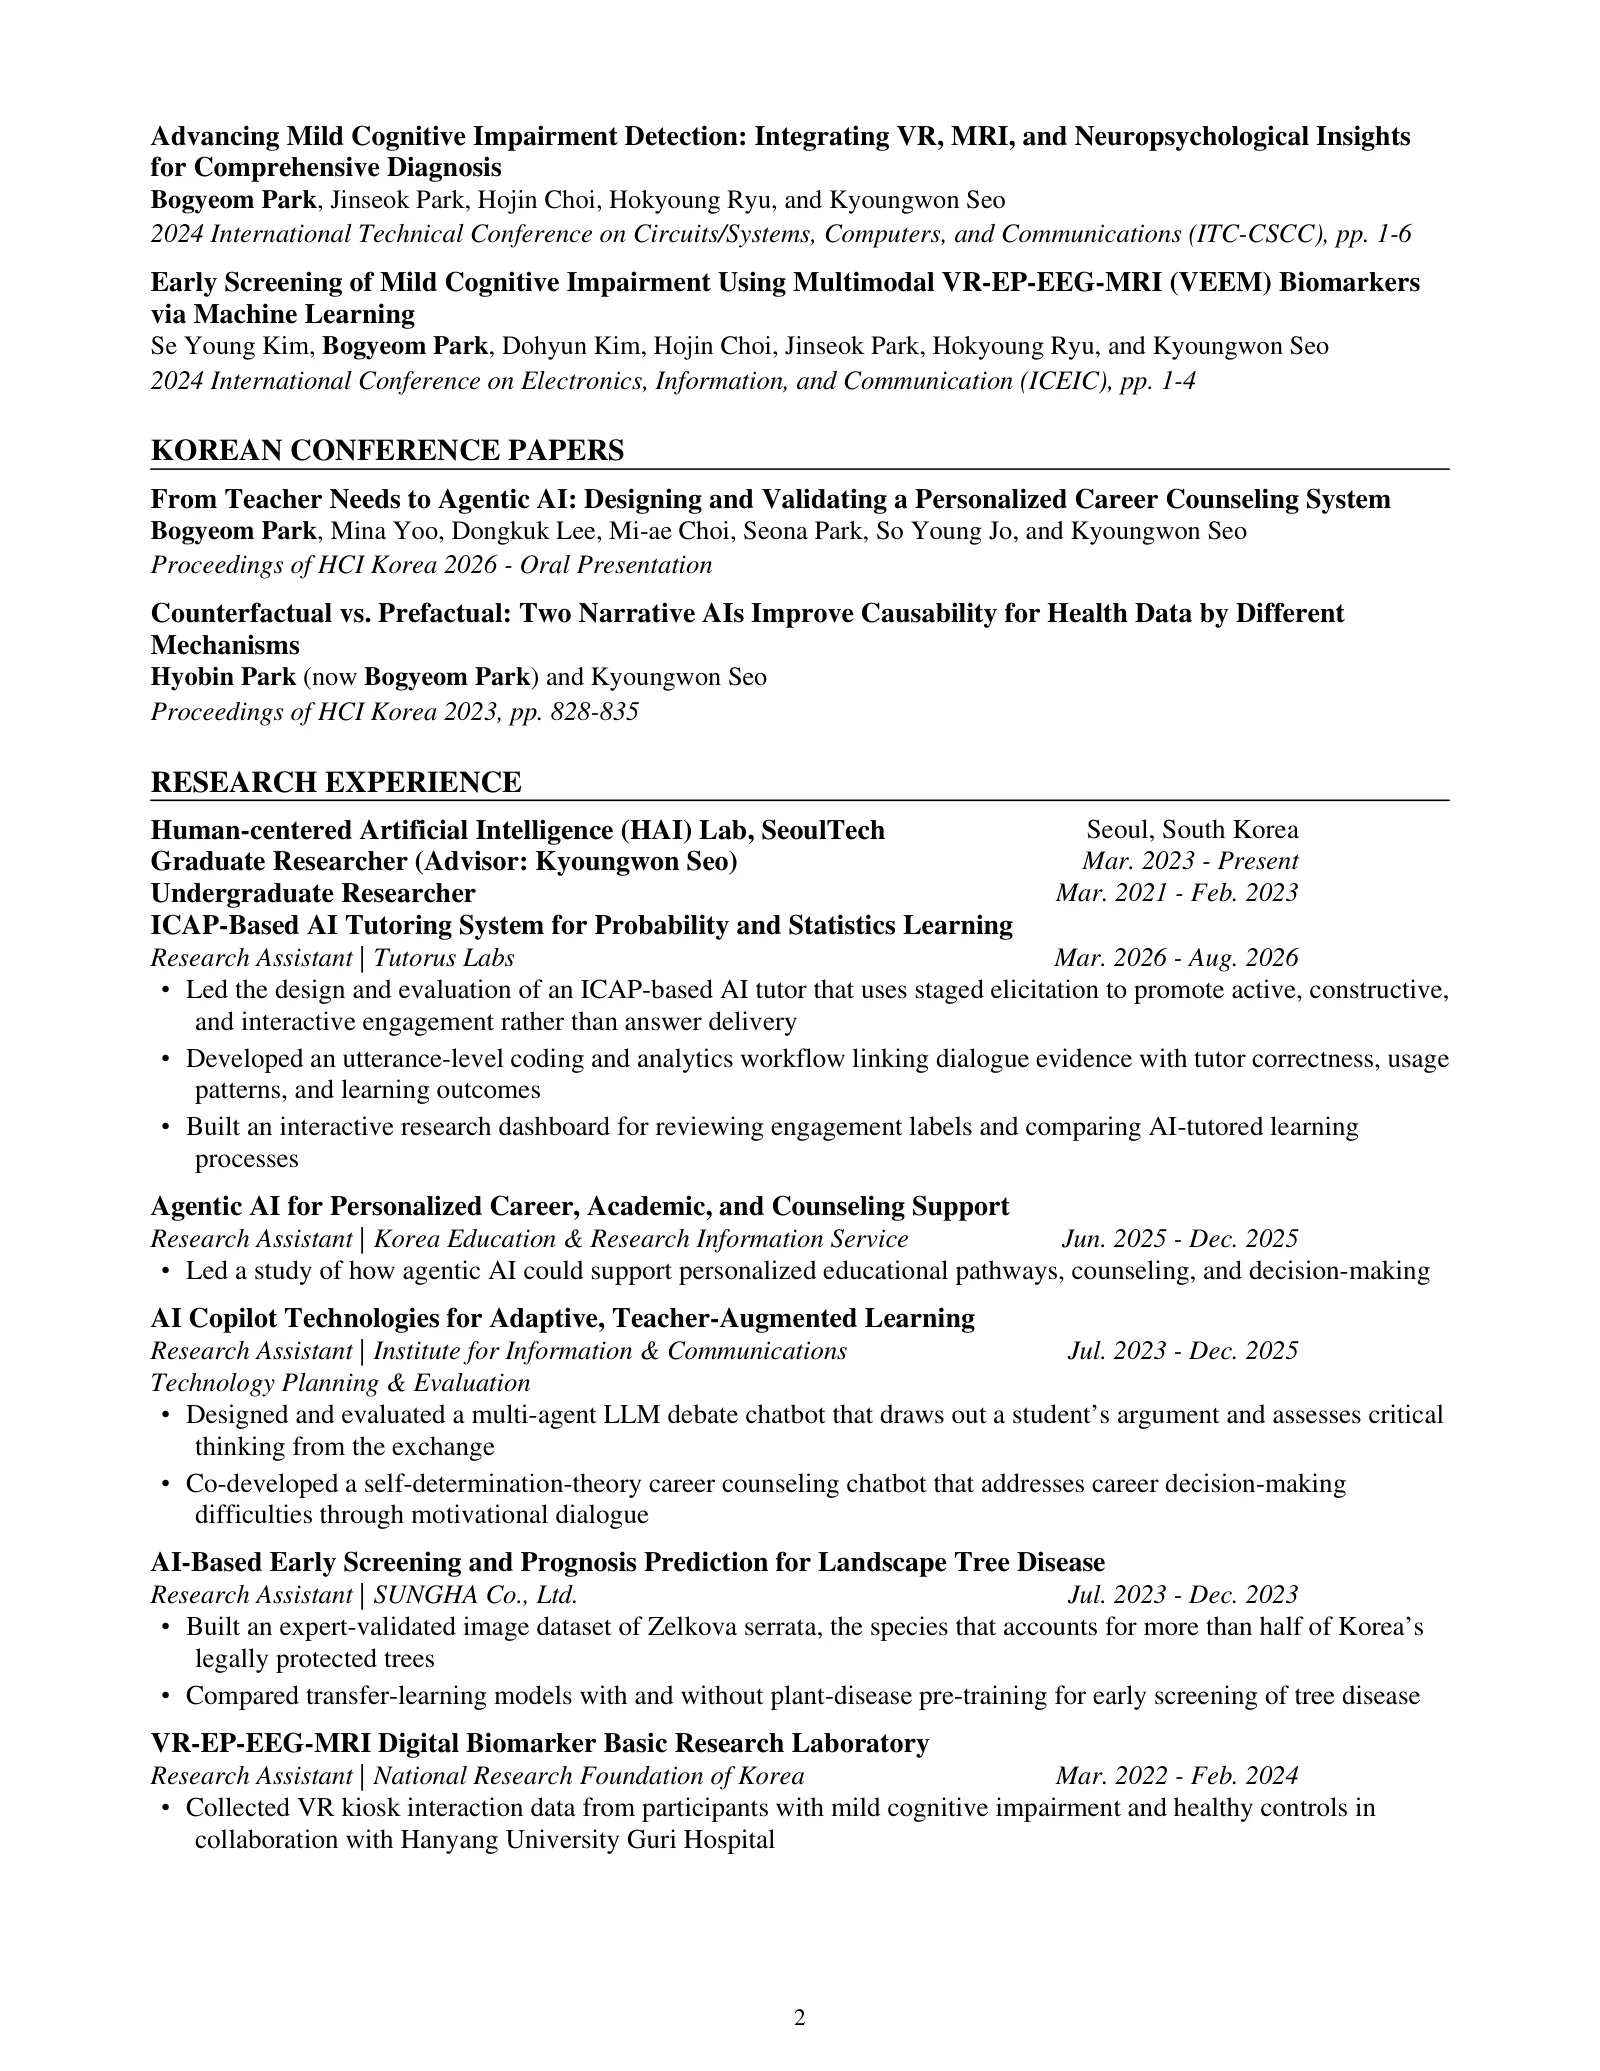
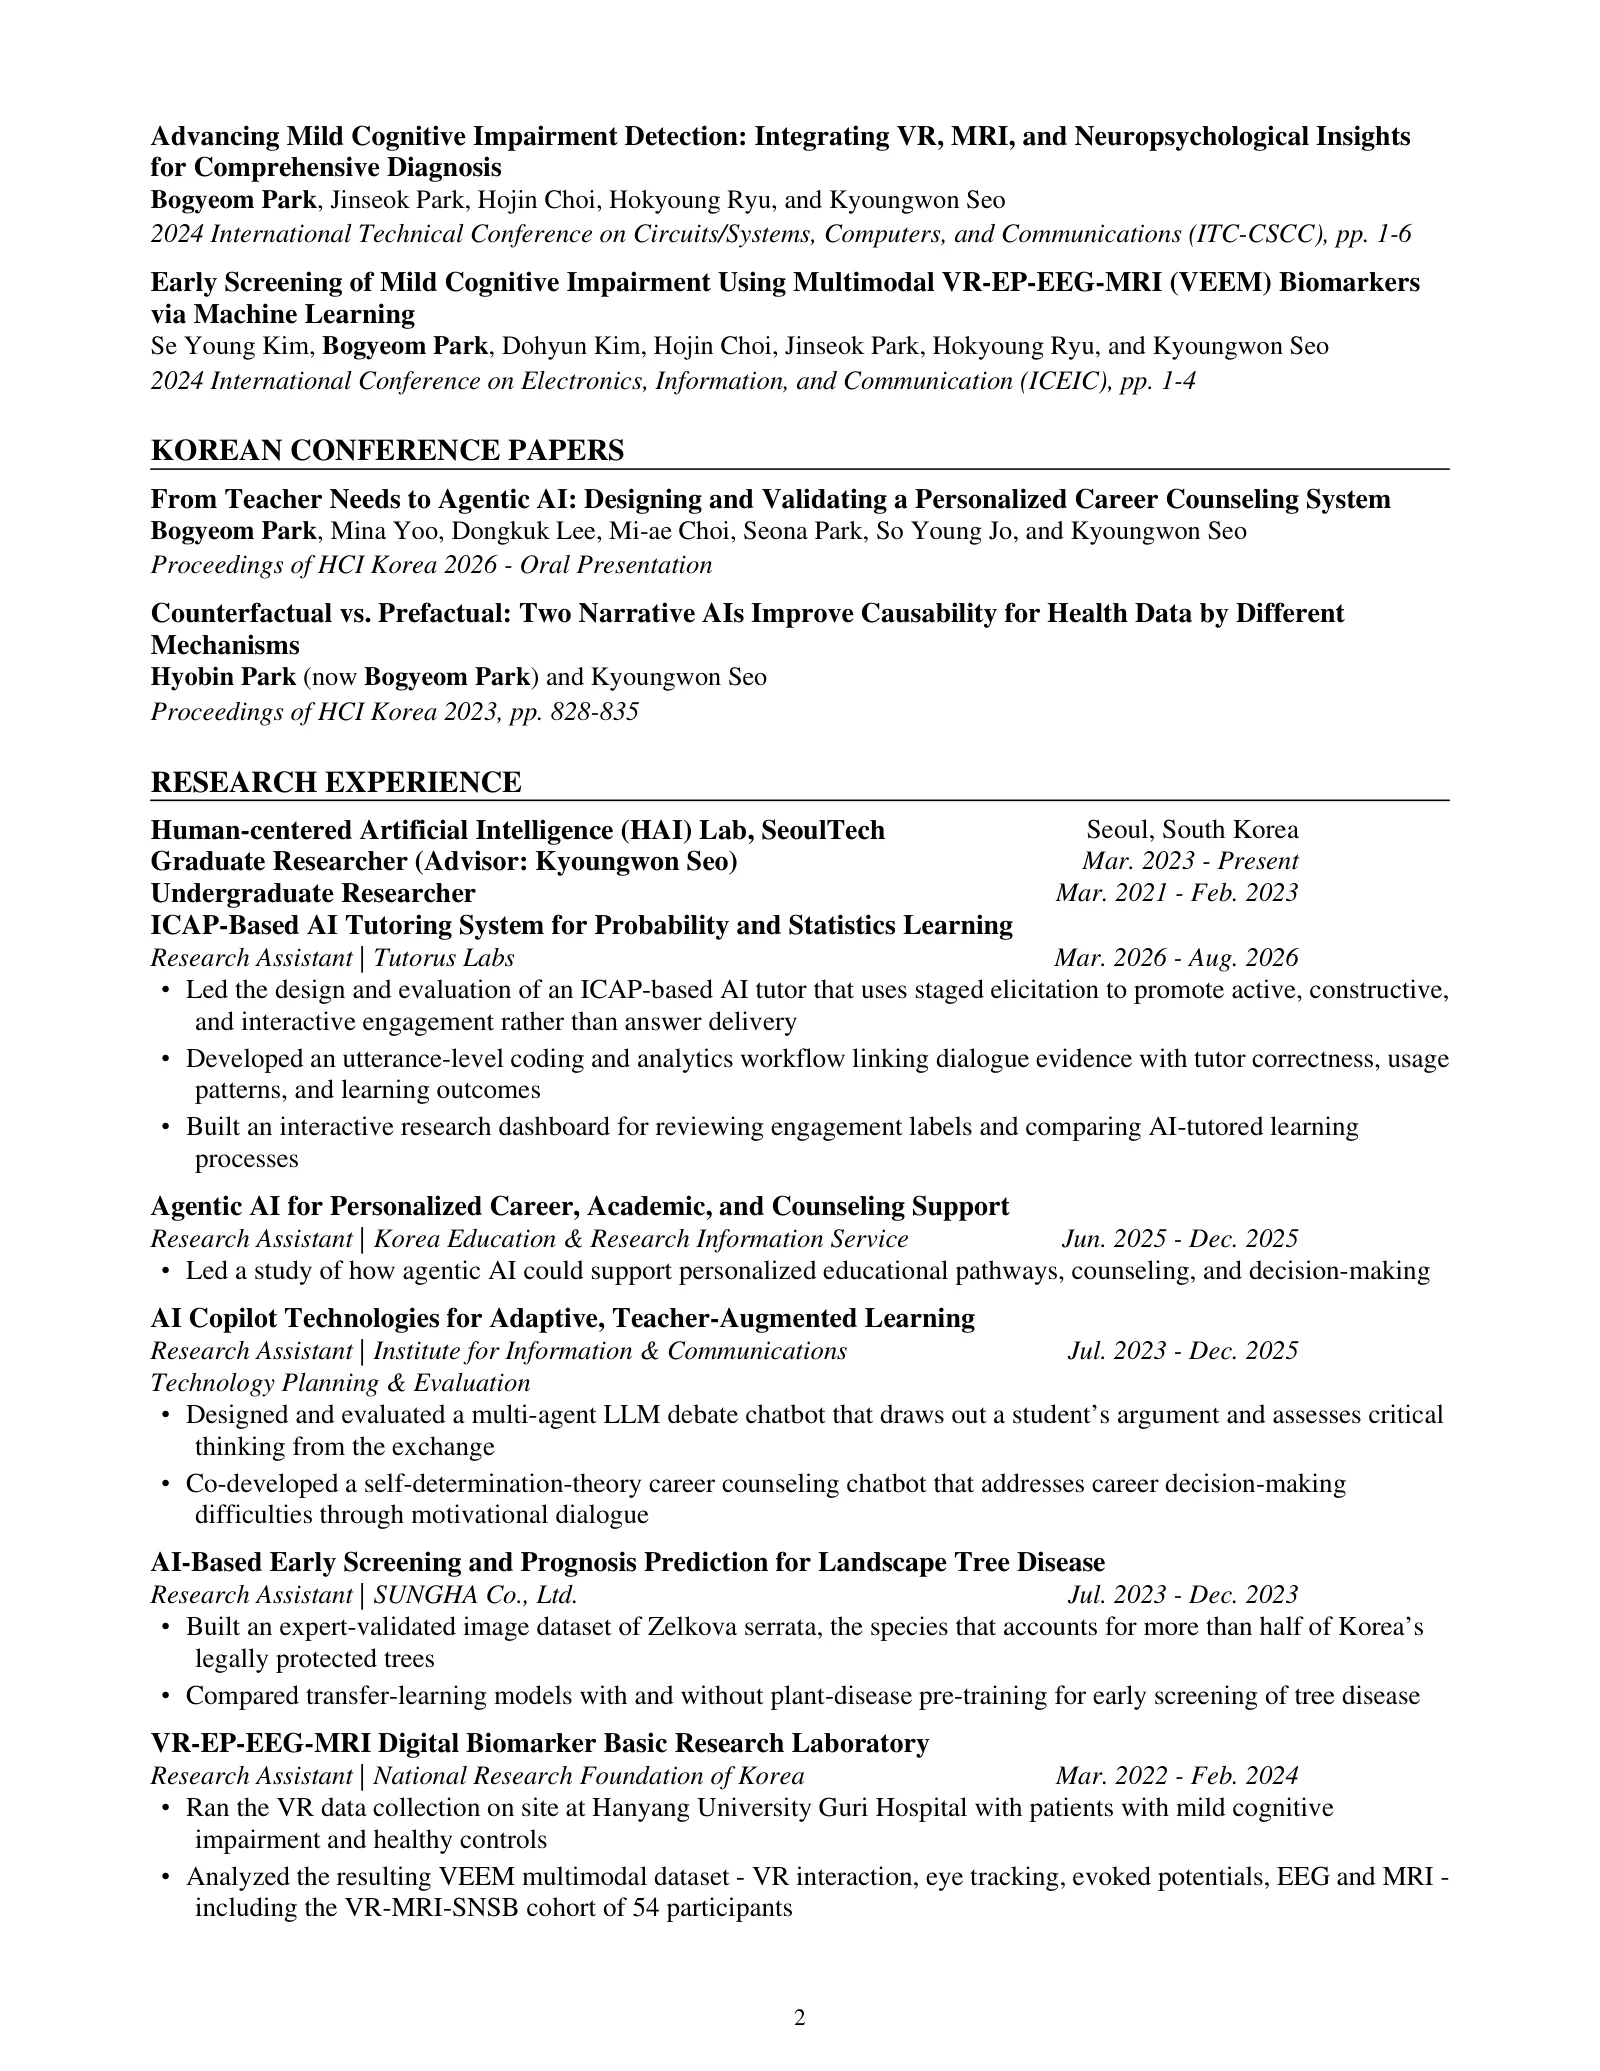
Say who built the kiosk, and who went to the hospital
Both projects were described from the outside - a model was developed, data was
collected - and the two facts that make them worth reading were missing.

The virtual kiosk task in the VR dementia project was built here, in Unity. It
is the instrument the whole study rests on and the thing a visitor can play on
this site, and nothing said so; "derived features from a virtual kiosk task"
reads as though someone handed the task over. Unity now appears in the project
tags, the CV bullets, the CV skills, and the home page's opening sentence,
which listed the systems built but not that one.

The Basic Research Laboratory entry said the raw dataset was managed. What
actually happened is that the VR data was collected on site at Hanyang
University Guri Hospital, from patients, and the VEEM multimodal data was
analysed from there. Clinical data collection with a patient population is not
data management, and it is the part a PI with a clinical collaboration reads
for.

Changed region(s): [[0.125, 0.8653, 0.8438, 0.9271], [0.8438, 0.8962, 0.9062, 0.9271]]

diff --git a/projects/index.html b/projects/index.html
@@ -99,8 +99,8 @@
             <img class="project-figure" src="/assets/projects/veem-brl/figure.webp" width="383" height="319" loading="lazy" alt="The four modalities the laboratory combined: VR interaction data, evoked potentials, EEG, and MRI">
             <p>Dementia is assessed through behavioral measures (VR), physiological ones (evoked potentials), and neural ones (EEG, MRI). Each had its own literature; how they relate to one another, and how to fuse four of them into one read, did not. The laboratory set out to identify those relations with deep learning and to produce a clinically usable VEEM digital biomarker.</p>
             <ul class="takeaway-list">
-              <li><b>My role.</b> Managed the VEEM raw dataset end to end &mdash; VR interaction logs, eye tracking, evoked potentials &mdash; including the VR&ndash;MRI&ndash;SNSB cohort of 54 participants, and wrote sections of the annual and final reports.</li>
-              <li><b>What came out.</b> The dataset behind four of my papers, and a filed patent submitted as a project deliverable.</li>
+              <li><b>My role.</b> Ran the VR data collection at the hospital myself, with patients rather than a convenience sample, and analysed the VEEM multimodal data that came out of it &mdash; VR interaction logs, eye tracking, evoked potentials, EEG and MRI &mdash; including the VR&ndash;MRI&ndash;SNSB cohort of 54 participants. Wrote sections of the annual and final reports.</li>
+              <li><b>What came out.</b> The clinical dataset behind four of my papers, and a filed patent submitted as a project deliverable.</li>
             </ul>
             <div class="tags"><span class="tag">Digital Biomarkers</span><span class="tag">Multimodal Fusion</span><span class="tag">EEG</span><span class="tag">MRI</span><span class="tag">Clinical Cohort</span></div>
           </div>
@@ -114,10 +114,10 @@
             <img class="project-figure" src="/assets/projects/vr-dementia-biomarker/figure.webp" width="367" height="247" loading="lazy" alt="Two of the virtual daily-living tasks: withdrawing money from an ATM, and taking a bus">
             <p>Daily-living performance is the measure clinicians reach for first in early dementia screening, and both ways of collecting it are compromised: a questionnaire bends to whoever answers it, and a computer-based test run through a mouse and keyboard is not how daily life is actually performed. The project built the assessment as an ordinary task carried out naturally in VR, then tested whether deep learning on that behavior screens as well as the clinical measures do.</p>
             <ul class="takeaway-list">
-              <li><b>My role.</b> Led the development and validation of the multimodal model, derived the hand-movement and gaze features from the virtual kiosk task, and tested them against MRI-derived measures in a clinical sample.</li>
+              <li><b>My role.</b> Built the virtual kiosk task in Unity &mdash; the six-step meal order participants carry out in VR, and the instrument the whole study rests on &mdash; then led the development and validation of the multimodal model, derived the hand-movement and gaze features from that task, and tested them against MRI-derived measures in a clinical sample.</li>
               <li><b>What came out.</b> A first-authored validation study in the <i>Journal of Medical Internet Research</i> (JCR Q1, top 3%), CHI Late-Breaking Work, and two IEEE conference papers.</li>
             </ul>
-            <div class="tags"><span class="tag">VR Behavioral Data</span><span class="tag">Multimodal Learning</span><span class="tag">Feature Engineering</span><span class="tag">MCI Screening</span></div>
+            <div class="tags"><span class="tag">VR Development</span><span class="tag">Unity</span><span class="tag">Multimodal Learning</span><span class="tag">Feature Engineering</span><span class="tag">MCI Screening</span></div>
             <div class="paper-links"><a href="/demos/kiosk/">Play it &rarr;</a><a href="/publications/multimodal-biomarkers-jmir/">The paper, JMIR 2024</a></div>
           </div>
         </article>

diff --git a/index.html b/index.html
@@ -39,7 +39,7 @@
       <header class="page-header">
         <p class="eyebrow">Human-Centered Agentic AI &middot; Human&ndash;AI Interaction</p>
         <h1>Designing agentic AI that finds your blind spots instead of covering them.</h1>
-        <p class="lead">I am <strong>Bogyeom Park</strong>, a Ph.D. student at SeoulTech&rsquo;s <a href="https://hai.seoultech.ac.kr/index.do" target="_blank" rel="noopener noreferrer">Human-centered Artificial Intelligence Lab</a>, advised by <a href="https://hai.seoultech.ac.kr/subList/20000004988" target="_blank" rel="noopener noreferrer">Prof.&nbsp;Kyoungwon Seo</a>. I build multi-agent LLM systems and multimodal behavioral models, and test where the work should pass back from the agent to the person &mdash; in tutoring, debate, career counseling, and early cognitive screening.</p>
+        <p class="lead">I am <strong>Bogyeom Park</strong>, a Ph.D. student at SeoulTech&rsquo;s <a href="https://hai.seoultech.ac.kr/index.do" target="_blank" rel="noopener noreferrer">Human-centered Artificial Intelligence Lab</a>, advised by <a href="https://hai.seoultech.ac.kr/subList/20000004988" target="_blank" rel="noopener noreferrer">Prof.&nbsp;Kyoungwon Seo</a>. I build the systems I study &mdash; multi-agent LLM pipelines, VR tasks in Unity, multimodal behavioral models &mdash; and test where the work should pass back from the agent to the person: tutoring, debate, career counseling, early cognitive screening.</p>
         <ul class="credentials">
           <li><b>12</b><span class="cred-label">Peer-reviewed papers</span><span class="cred-note">6 first-authored</span></li>
           <li><b>87</b><span class="cred-label">Citations</span><span class="cred-note">h-index 5</span></li>

diff --git a/scripts/cv_data.py b/scripts/cv_data.py
@@ -254,8 +254,10 @@ RESEARCH_EXPERIENCE = [
                 "role": "Research Assistant | National Research Foundation of Korea",
                 "dates": "Mar. 2022 - Feb. 2024",
                 "bullets": [
-                    "Collected VR kiosk interaction data from participants with mild cognitive impairment "
-                    "and healthy controls in collaboration with Hanyang University Guri Hospital",
+                    "Ran the VR data collection on site at Hanyang University Guri Hospital with patients "
+                    "with mild cognitive impairment and healthy controls",
+                    "Analyzed the resulting VEEM multimodal dataset - VR interaction, eye tracking, evoked "
+                    "potentials, EEG and MRI - including the VR-MRI-SNSB cohort of 54 participants",
                 ],
             },
             {
@@ -267,9 +269,11 @@ RESEARCH_EXPERIENCE = [
                 "dates": "Mar. 2021 - Feb. 2024",
                 # First-authored the JMIR validation study this grant produced.
                 "bullets": [
+                    "Developed the virtual kiosk task in Unity - the six-step daily-living scenario the "
+                    "study's VR biomarkers are derived from",
                     "Led the development and validation of a multimodal model combining VR behavioral "
                     "biomarkers with MRI for early detection of mild cognitive impairment",
-                    "Derived hand-movement and gaze features from a virtual kiosk task and tested them "
+                    "Derived hand-movement and gaze features from the kiosk task and tested them "
                     "against MRI-derived measures in a clinical sample",
                 ],
             },
@@ -307,6 +311,7 @@ SKILLS = [
     "multimodal learning analytics, statistical analysis, qualitative coding",
     "<b>AI and Data</b> - machine learning, deep learning, feature engineering, LLM applications, AI agents",
     "<b>Programming and Analysis</b> - Python, C/C#, SPSS",
+    "<b>VR and Interactive Systems</b> - Unity, VR task development, interaction logging and eye tracking",
     "<b>Design</b> - HCI theory, UX design, interaction prototyping, usability testing",
 ]
 
